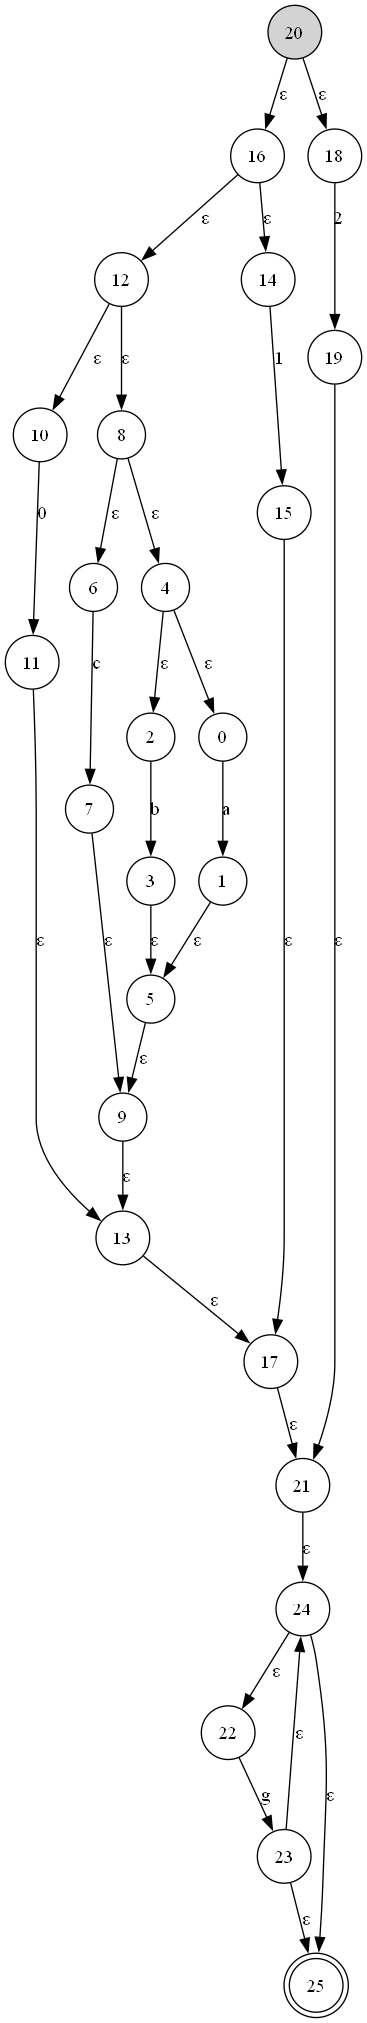
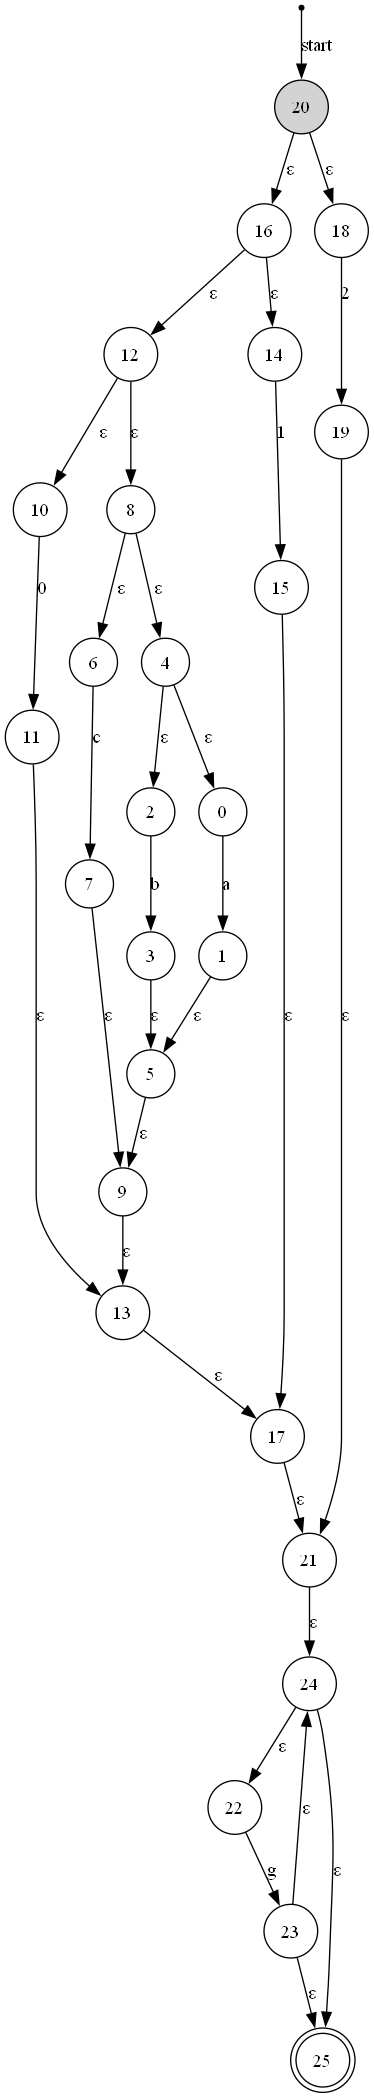
Add starting state to NFA visualization and save NFA structure to JSON

diff --git a/src/NFA.py b/src/NFA.py
@@ -14,10 +14,8 @@ precedence={
 @dataclass
 class State:
     index: int = 0
-
     def __post_init__(self):
         self.index = State._generate_index()
-
     @staticmethod
     def _generate_index():
         if not hasattr(State, "_index_counter"):
@@ -42,7 +40,6 @@ class NFA_node:
      
 class NFA:
     def __init__(self, regex):
-     
         if not self.is_valid_regex(regex):
             raise ValueError("Invalid regex")
         tokens=self.tokenize(regex)
@@ -70,7 +67,10 @@ class NFA:
                 nfa_json[str(edge_from.index)][edge.label]=[str(edge_to.index)]
             else:
                 nfa_json[str(edge_from.index)][edge.label].append(str(edge_to.index))
-        print(json.dumps(nfa_json, indent=4))
+
+        ##save the nfa to a json file
+        with open("nfa.json","w", encoding="utf-8") as file:
+            json.dump(nfa_json,file,indent=4, ensure_ascii=False)
         return nfa_json
     def build_nfa(self, postfix):
         stack=[]

diff --git a/src/Visualize_NFA.py b/src/Visualize_NFA.py
@@ -9,6 +9,9 @@ def draw_nfa(nfa, output_file="nfa_graph"):
 
     ##color the starting state
     dot.node(start_state, shape="circle", style="filled", fillcolor="lightgrey")
+    ##add edge to starting state from no where
+    dot.node("", shape="point")  # Add an invisible starting point
+    dot.edge("", start_state, label="start")
 
     
     for state, transitions in nfa.items():
